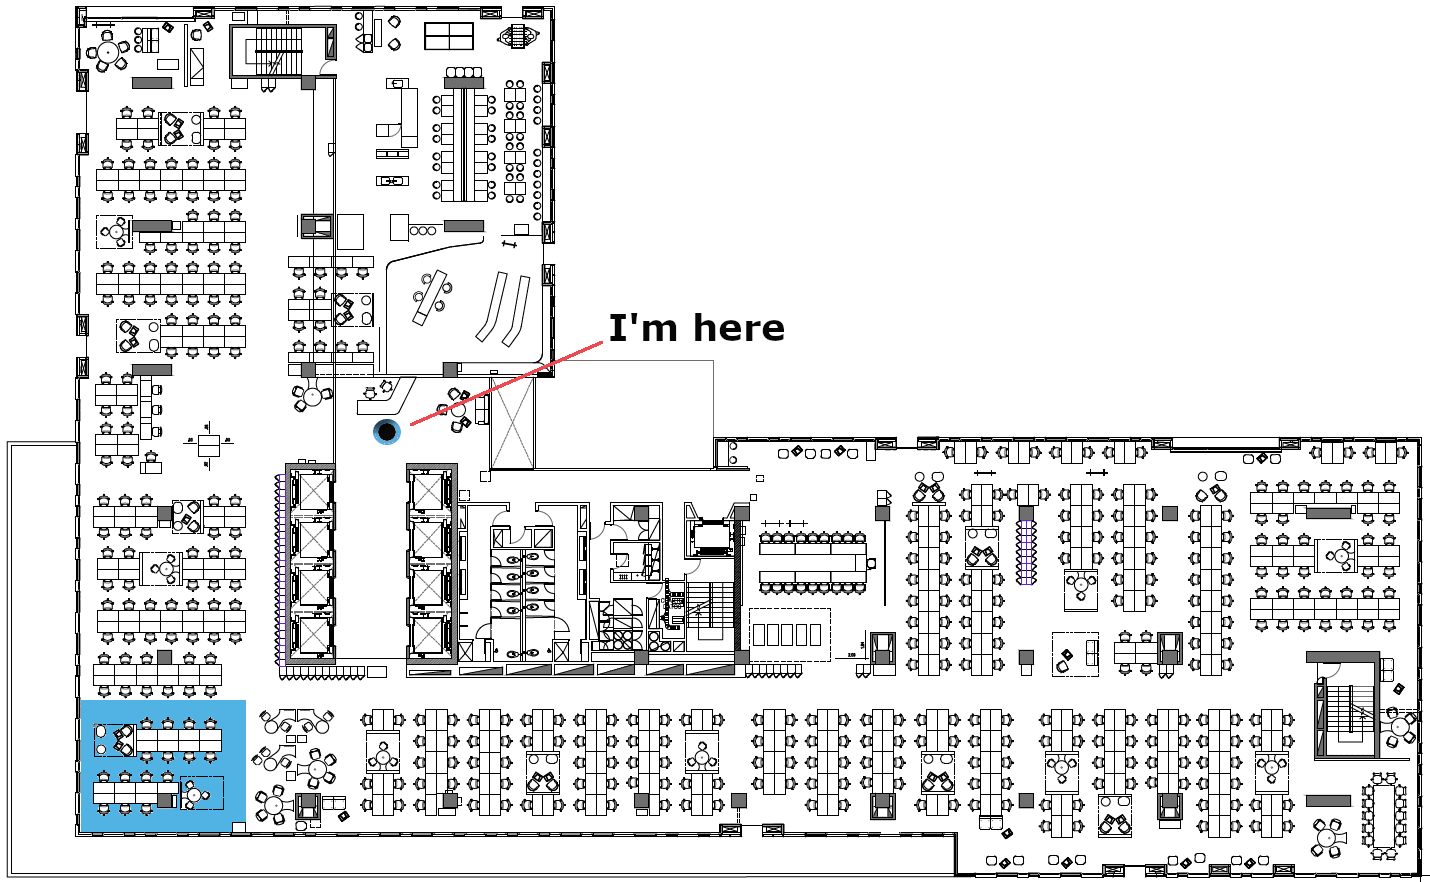
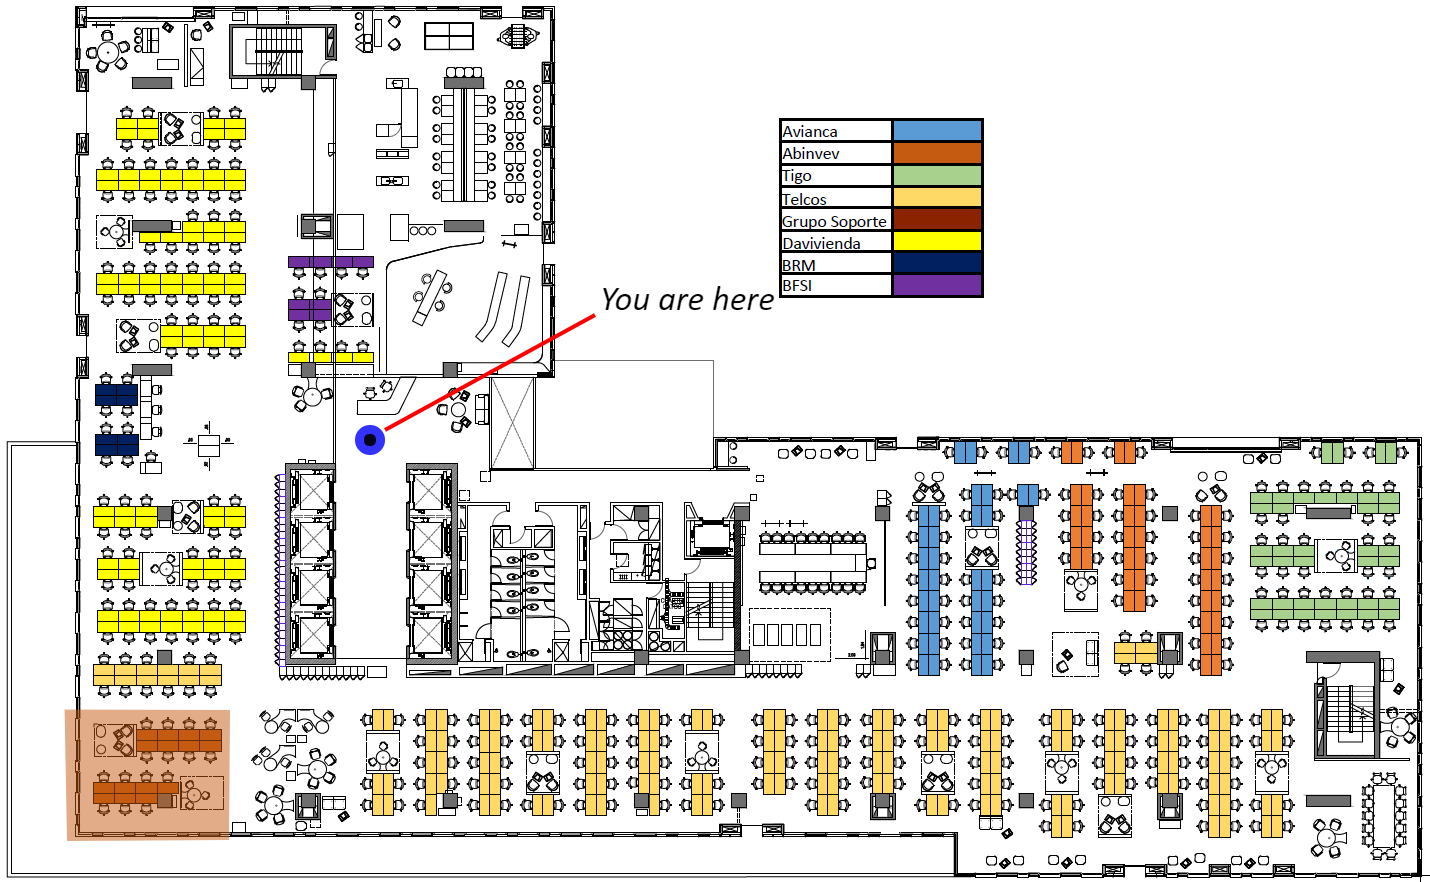
Load employees ISO, field color in form and image example

diff --git a/db/seeds.rb b/db/seeds.rb
@@ -11,17 +11,17 @@ Role.create(name: :admin)
 Role.create(name: :employee)
 
 #Projects
-project1 = Project.create(name: 'Grupo Soporte', status: '1', tag: 'GS', colour: 'c55a11')
-project2 = Project.create(name: 'Claro/Telmex', status: '1', tag: 'CL', colour: 'ffd966')
-project3 = Project.create(name: 'Davivienda', status: '1', tag: 'DA', colour: 'ffff00')
-project4 = Project.create(name: 'ABINBEV', status: '1', tag: 'AB', colour: 'ed7d31')
-project5 = Project.create(name: 'AVIANCA', status: '1', tag: 'AV', colour: '5b9bd5')
-project6 = Project.create(name: 'Retail SWON', status: '1', tag: 'RE', colour: '002060')
-project7 = Project.create(name: 'BFSI SWON', status: '1', tag: 'BF', colour: '7030a0')
-project8 = Project.create(name: 'ENTSOL', status: '1', tag: 'EN', colour: 'ffffff')
-project9 = Project.create(name: 'SWON CMI', status: '1', tag: 'SW', colour: 'ffffff')
-project10 = Project.create(name: 'Compliance SWON', status: '1', tag: 'CO', colour: 'ffffff')
-project11 = Project.create(name: 'TIGO', status: '1', tag: 'TI', colour: 'a9d18e')
+project1 = Project.create(name: 'Grupo Soporte', status: '1', tag: 'GS', colour: '#c55a11')
+project2 = Project.create(name: 'Claro/Telmex', status: '1', tag: 'CL', colour: '#ffd966')
+project3 = Project.create(name: 'Davivienda', status: '1', tag: 'DA', colour: '#ffff00')
+project4 = Project.create(name: 'ABINBEV', status: '1', tag: 'AB', colour: '#ed7d31')
+project5 = Project.create(name: 'AVIANCA', status: '1', tag: 'AV', colour: '#5b9bd5')
+project6 = Project.create(name: 'Retail SWON', status: '1', tag: 'RE', colour: '#002060')
+project7 = Project.create(name: 'BFSI SWON', status: '1', tag: 'BF', colour: '#7030a0')
+project8 = Project.create(name: 'ENTSOL', status: '1', tag: 'EN', colour: '#ffffff')
+project9 = Project.create(name: 'SWON CMI', status: '1', tag: 'SW', colour: '#ffffff')
+project10 = Project.create(name: 'Compliance SWON', status: '1', tag: 'CO', colour: '#ffffff')
+project11 = Project.create(name: 'TIGO', status: '1', tag: 'TI', colour: '#a9d18e')
 
 #User admin
 user1 = User.create(username: 'admin',

diff --git a/app/controllers/employees_controller.rb b/app/controllers/employees_controller.rb
@@ -38,7 +38,7 @@ class EmployeesController < ApplicationController
       total = 0
       session[:text_errors] = []
       import_file = params[:employees_file]
-      File.readlines(import_file.path, :encoding => 'UTF-8').each do |line|
+      File.readlines(import_file.path, :encoding => 'ISO-8859-1').each do |line|
         begin
           # number|name|joindate|birthdate|assignment|project|seat(optional)
           total += 1
@@ -114,20 +114,20 @@ class EmployeesController < ApplicationController
           end
 
           if assignment == Employee::FIXED && seat_code.blank?
-            map = Map.where(:project_id => project.id).last
-            if !map.nil?
-              seat = Seat.where("(assignment_date IS NULL OR assignment_date <> ?)", Date.today)
-                            .where(:project => project)
-                            .where(:status => Seat::ACTIVE)
-                            .where(:map => map).first
-              seat.update(status: Seat::UNAVAILABLE, assignment_date: Date.today )
-              employee.update(seat: seat)
-            else
+            #map = Map.where(:project_id => project.id).last
+            #if !map.nil?
+              #seat = Seat.where("(assignment_date IS NULL OR assignment_date <> ?)", Date.today)
+              #              .where(:project => project)
+              #              .where(:status => Seat::ACTIVE)
+              #              .where(:map => map).first
+              #seat.update(status: Seat::UNAVAILABLE, assignment_date: Date.today )
+              #employee.update(seat: seat)
+            #else
               session[:text_errors][error_number] = line + ";" + I18n.t("errors.seat_mandatory")
               error_number += 1
               logger.warn "Seat code mandatory when assgnment type is fixed"
               next
-            end
+            #end
           end
 
           if !seat_code.blank?

diff --git a/db/schema.rb b/db/schema.rb
@@ -10,7 +10,7 @@
 #
 # It's strongly recommended that you check this file into your version control system.
 
-ActiveRecord::Schema.define(version: 2019_01_17_061927) do
+ActiveRecord::Schema.define(version: 2019_01_17_071007) do
 
   create_table "assignments", options: "ENGINE=InnoDB DEFAULT CHARSET=utf8", force: :cascade do |t|
     t.bigint "project_id", null: false
@@ -60,6 +60,7 @@ ActiveRecord::Schema.define(version: 2019_01_17_061927) do
     t.string "tag", limit: 3, null: false
     t.datetime "created_at", null: false
     t.datetime "updated_at", null: false
+    t.string "colour", limit: 20
   end
 
   create_table "roles", options: "ENGINE=InnoDB DEFAULT CHARSET=utf8", force: :cascade do |t|
@@ -124,12 +125,6 @@ ActiveRecord::Schema.define(version: 2019_01_17_061927) do
     t.index ["user_id"], name: "index_users_roles_on_user_id"
   end
 
-  create_table "zones", options: "ENGINE=InnoDB DEFAULT CHARSET=utf8", force: :cascade do |t|
-    t.bigint "project_id", null: false
-    t.string "coordinates", null: false
-    t.index ["project_id"], name: "fk_rails_469356bd73"
-  end
-
   add_foreign_key "assignments", "employees"
   add_foreign_key "assignments", "projects"
   add_foreign_key "assignments", "seats"
@@ -138,5 +133,4 @@ ActiveRecord::Schema.define(version: 2019_01_17_061927) do
   add_foreign_key "maps", "projects"
   add_foreign_key "seats", "maps"
   add_foreign_key "seats", "projects"
-  add_foreign_key "zones", "projects"
 end
